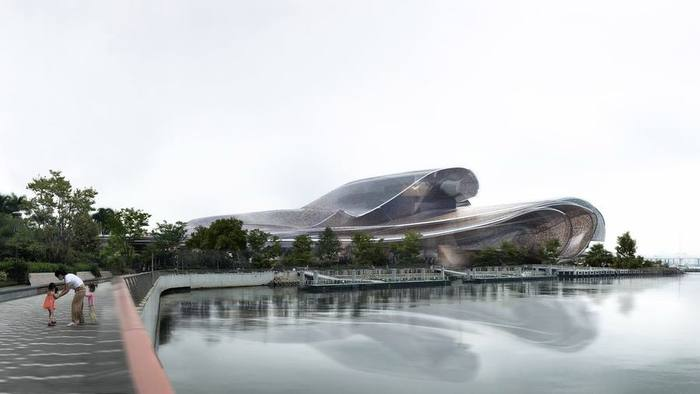
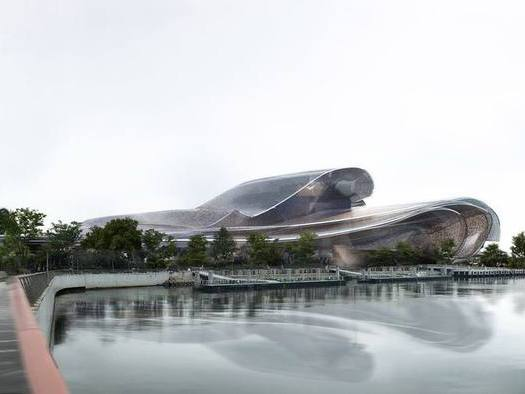
Fix weather unit alignment, swap in properly-cropped landmark photos
- Weather widget: units (deg;C/%) are now separate flex-positioned
  spans anchored to the top-right of the digits, instead of an inline
  <sup> that floated far above the numbers once they grew to 8rem.
  Number size is now a responsive clamp(2.25rem,20vw,8rem) so it
  reaches the requested 8rem on desktop without breaking the required
  3-column mobile layout (verified at 375px: no overlap).
- Replaced 20 of 21 landmark photos with versions the user pre-cropped
  to a clean 4:3 -- no more relying on object-fit:cover to crop them
  down, source ratio now matches the display box almost exactly.
  Recompressed the batch (700px wide, quality 72): 3.69MB -> 941KB.
- Bumped footer version to 2.45.

Changed region(s): [[0.0, 0.4264, 1.0, 1.0], [0.8838, 0.9442, 0.9752, 1.0], [0.9448, 0.8832, 1.0, 0.9442]]

diff --git a/index.html b/index.html
@@ -2748,16 +2748,22 @@
     <div class="grid grid-cols-3 gap-2">
       <div>
         <p class="text-xs text-gray-500 leading-tight">Current<br>Temperature</p>
-        <p id="wx-temp" class="text-gray-800" style="font-family:'quire-sans',-apple-system,BlinkMacSystemFont,'Segoe UI',Roboto,sans-serif; font-weight:100; line-height:1; font-size:clamp(2rem,10vw,3.5rem); -webkit-text-stroke:0.3px currentColor; white-space:nowrap;">&ndash;</p>
+        <div class="text-gray-800" style="display:flex; align-items:flex-start; gap:2px; font-family:'quire-sans',-apple-system,BlinkMacSystemFont,'Segoe UI',Roboto,sans-serif; font-weight:100; -webkit-text-stroke:0.3px currentColor; white-space:nowrap;">
+          <span id="wx-temp" style="font-size:clamp(2.25rem,20vw,8rem); line-height:0.8;">&ndash;</span>
+          <span id="wx-temp-unit" style="font-size:calc(clamp(2.25rem,20vw,8rem) * 0.225); margin-top:0.5em;"></span>
+        </div>
       </div>
       <div>
         <p class="text-xs text-gray-500 leading-tight">Current<br>Relative Humidity</p>
-        <p id="wx-humidity" class="text-gray-800" style="font-family:'quire-sans',-apple-system,BlinkMacSystemFont,'Segoe UI',Roboto,sans-serif; font-weight:100; line-height:1; font-size:clamp(2rem,10vw,3.5rem); -webkit-text-stroke:0.3px currentColor; white-space:nowrap;">&ndash;</p>
+        <div class="text-gray-800" style="display:flex; align-items:flex-start; gap:2px; font-family:'quire-sans',-apple-system,BlinkMacSystemFont,'Segoe UI',Roboto,sans-serif; font-weight:100; -webkit-text-stroke:0.3px currentColor; white-space:nowrap;">
+          <span id="wx-humidity" style="font-size:clamp(2.25rem,20vw,8rem); line-height:0.8;">&ndash;</span>
+          <span id="wx-humidity-unit" style="font-size:calc(clamp(2.25rem,20vw,8rem) * 0.225); margin-top:0.5em;"></span>
+        </div>
       </div>
       <div>
         <p class="text-xs text-gray-500 leading-tight">Current<br>Comfort Level by Dew Point</p>
-        <p id="wx-comfort" class="text-gray-800" style="font-family:'quire-sans',-apple-system,BlinkMacSystemFont,'Segoe UI',Roboto,sans-serif; font-weight:200; line-height:1.2; font-size:calc(clamp(2rem,10vw,3.5rem) * 0.33); margin-top:0.4rem;">&ndash;</p>
-        <p id="wx-dewpoint" class="text-gray-500" style="font-family:'quire-sans',-apple-system,BlinkMacSystemFont,'Segoe UI',Roboto,sans-serif; font-weight:200; line-height:1.2; font-size:calc(clamp(2rem,10vw,3.5rem) * 0.33);"></p>
+        <p id="wx-comfort" class="text-gray-800" style="font-family:'quire-sans',-apple-system,BlinkMacSystemFont,'Segoe UI',Roboto,sans-serif; font-weight:200; line-height:1.2; font-size:calc(clamp(2.25rem,20vw,8rem) * 0.33); margin-top:0.4rem;">&ndash;</p>
+        <p id="wx-dewpoint" class="text-gray-500" style="font-family:'quire-sans',-apple-system,BlinkMacSystemFont,'Segoe UI',Roboto,sans-serif; font-weight:200; line-height:1.2; font-size:calc(clamp(2.25rem,20vw,8rem) * 0.33);"></p>
       </div>
     </div>
     <p id="wx-updated" class="text-xs text-gray-400"></p>
@@ -2780,7 +2786,7 @@
 <!-- FOOTER -->
 <footer class="bg-brand text-white mt-12 py-6" style="background-color:#1e293b;">
   <div class="max-w-4xl mx-auto px-4 text-center">
-    <p class="text-blue-300 text-xs">Version 2.40. This content was last updated in August 2026. It is a personal project of the expat community and is not endorsed guidance from any other entity. As always, things change frequently. Verify critical details with official sources before acting on them.</p>
+    <p class="text-blue-300 text-xs">Version 2.45. This content was last updated in August 2026. It is a personal project of the expat community and is not endorsed guidance from any other entity. As always, things change frequently. Verify critical details with official sources before acting on them.</p>
   </div>
 </footer>
 
@@ -2899,7 +2905,9 @@ document.querySelectorAll('.tab-btn').forEach(b =>
 
 (function () {
   const tempEl = document.getElementById('wx-temp');
+  const tempUnitEl = document.getElementById('wx-temp-unit');
   const humEl = document.getElementById('wx-humidity');
+  const humUnitEl = document.getElementById('wx-humidity-unit');
   const comfortEl = document.getElementById('wx-comfort');
   const dewEl = document.getElementById('wx-dewpoint');
   const updatedEl = document.getElementById('wx-updated');
@@ -2918,8 +2926,10 @@ document.querySelectorAll('.tab-btn').forEach(b =>
     .then(r => r.json())
     .then(data => {
       const c = data.current;
-      tempEl.innerHTML = Math.round(c.temperature_2m) + '<sup style="font-size:0.4em;">&deg;C</sup>';
-      humEl.innerHTML = Math.round(c.relative_humidity_2m) + '<sup style="font-size:0.4em;">%</sup>';
+      tempEl.textContent = Math.round(c.temperature_2m);
+      tempUnitEl.textContent = '°C';
+      humEl.textContent = Math.round(c.relative_humidity_2m);
+      humUnitEl.textContent = '%';
       comfortEl.textContent = comfortLevel(c.dew_point_2m);
       dewEl.textContent = Math.round(c.dew_point_2m) + '°C';
       const time = new Date(c.time);
